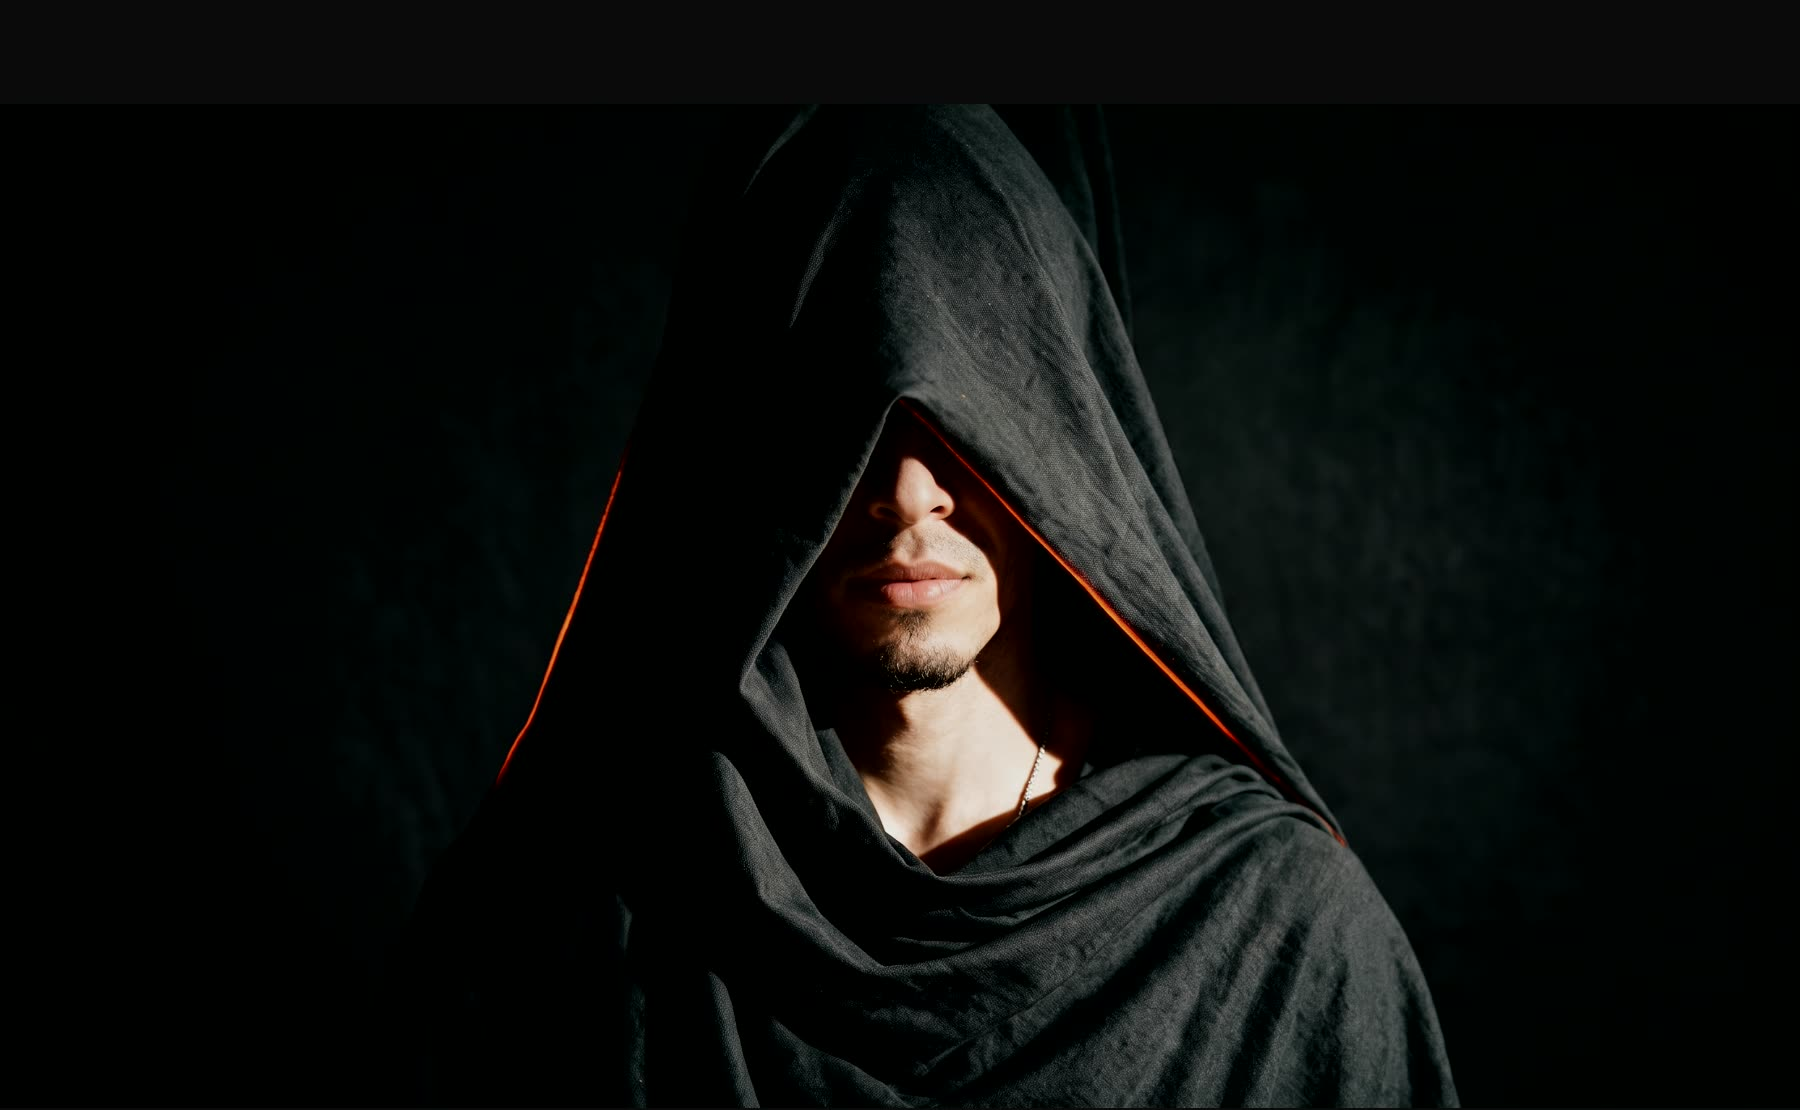
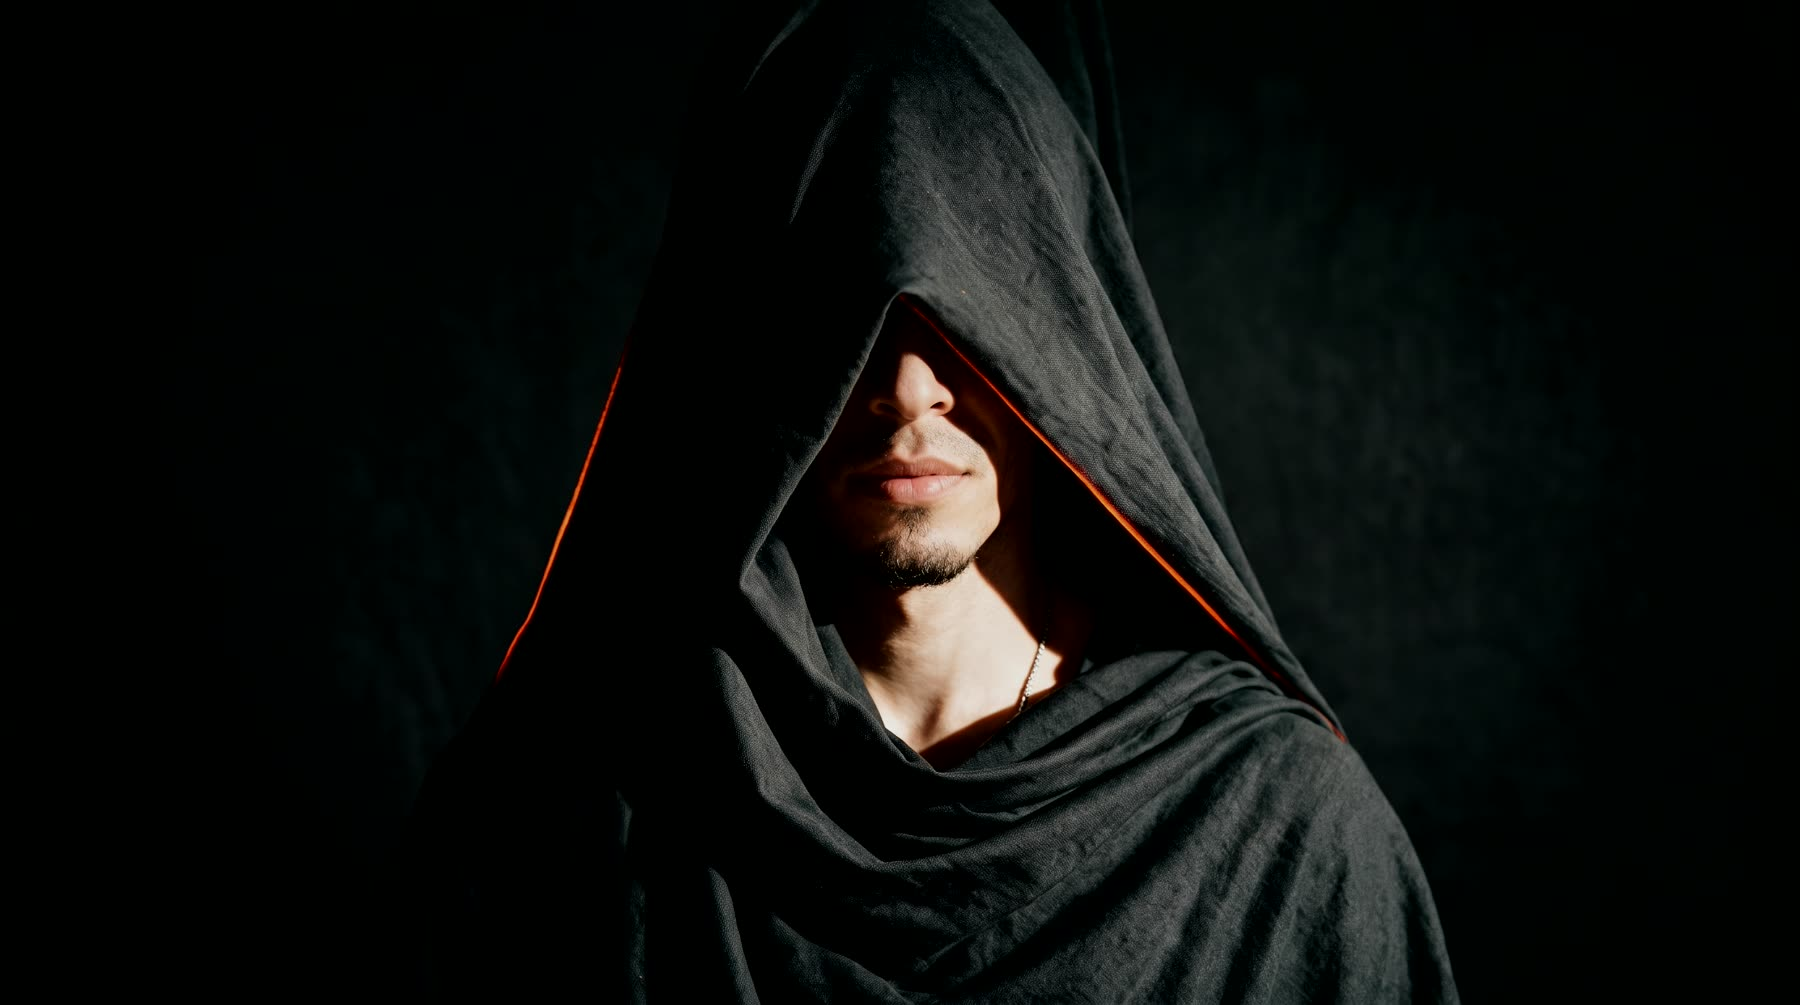
fix(contato): a barra preta no topo era a folga que eu mesmo padei
A faixa de 105px em Aco que eu tinha adicionado no topo do arquivo para
dar folga ao capuz nao sumia no fundo: virava uma barra chapada
atravessando a secao inteira, exatamente a "borda gigante" do print. O
motivo e que o fundo de estudio da foto e um preto ACINZENTADO — Aco puro
encostado nele nao desaparece, faz emenda visivel. E a emenda ficava logo
abaixo da barra de navegacao, que e onde mais chama atencao.

Sem a faixa. Na referencia o capuz encosta no topo do mesmo jeito.

Conferido que nada quebrou: secao com 900px numa viewport de 900 — uma
tela exata; foto comecando em 0, cobrindo a secao inteira; rodape
encaixando em 900, sem vao. Em 375 a secao cresce para 1368 (coluna
unica) e o rodape continua encaixando. Zero scroll horizontal nos dois; os
7 elementos que passam da borda sao as ripas da cortina de transicao, que
vivem fora da tela de proposito e sao anteriores a tudo isto.

diff --git a/src/index.css b/src/index.css
@@ -2493,7 +2493,12 @@ h3 {
    O escurecimento vive no ARQUIVO (-0.09 de brilho, 1.06 de contraste),
    nao so na opacidade: baixar opacidade lava a imagem contra o fundo e
    achata o contraste junto. Escurecer na fonte preserva a modelagem do
-   capuz, e ai a opacidade so precisa recuar um pouco. */
+   capuz, e ai a opacidade so precisa recuar um pouco.
+
+   SEM faixa de folga no topo. Uma tentei, de 105px em Aco, e ela virou
+   uma barra chapada atravessando a secao inteira: o fundo de estudio da
+   foto e um preto ACINZENTADO, entao Aco puro ao lado dele nao some, faz
+   emenda. Na referencia o capuz encosta no topo do mesmo jeito. */
 .contato__foto {
   position: absolute;
   inset: 0;
